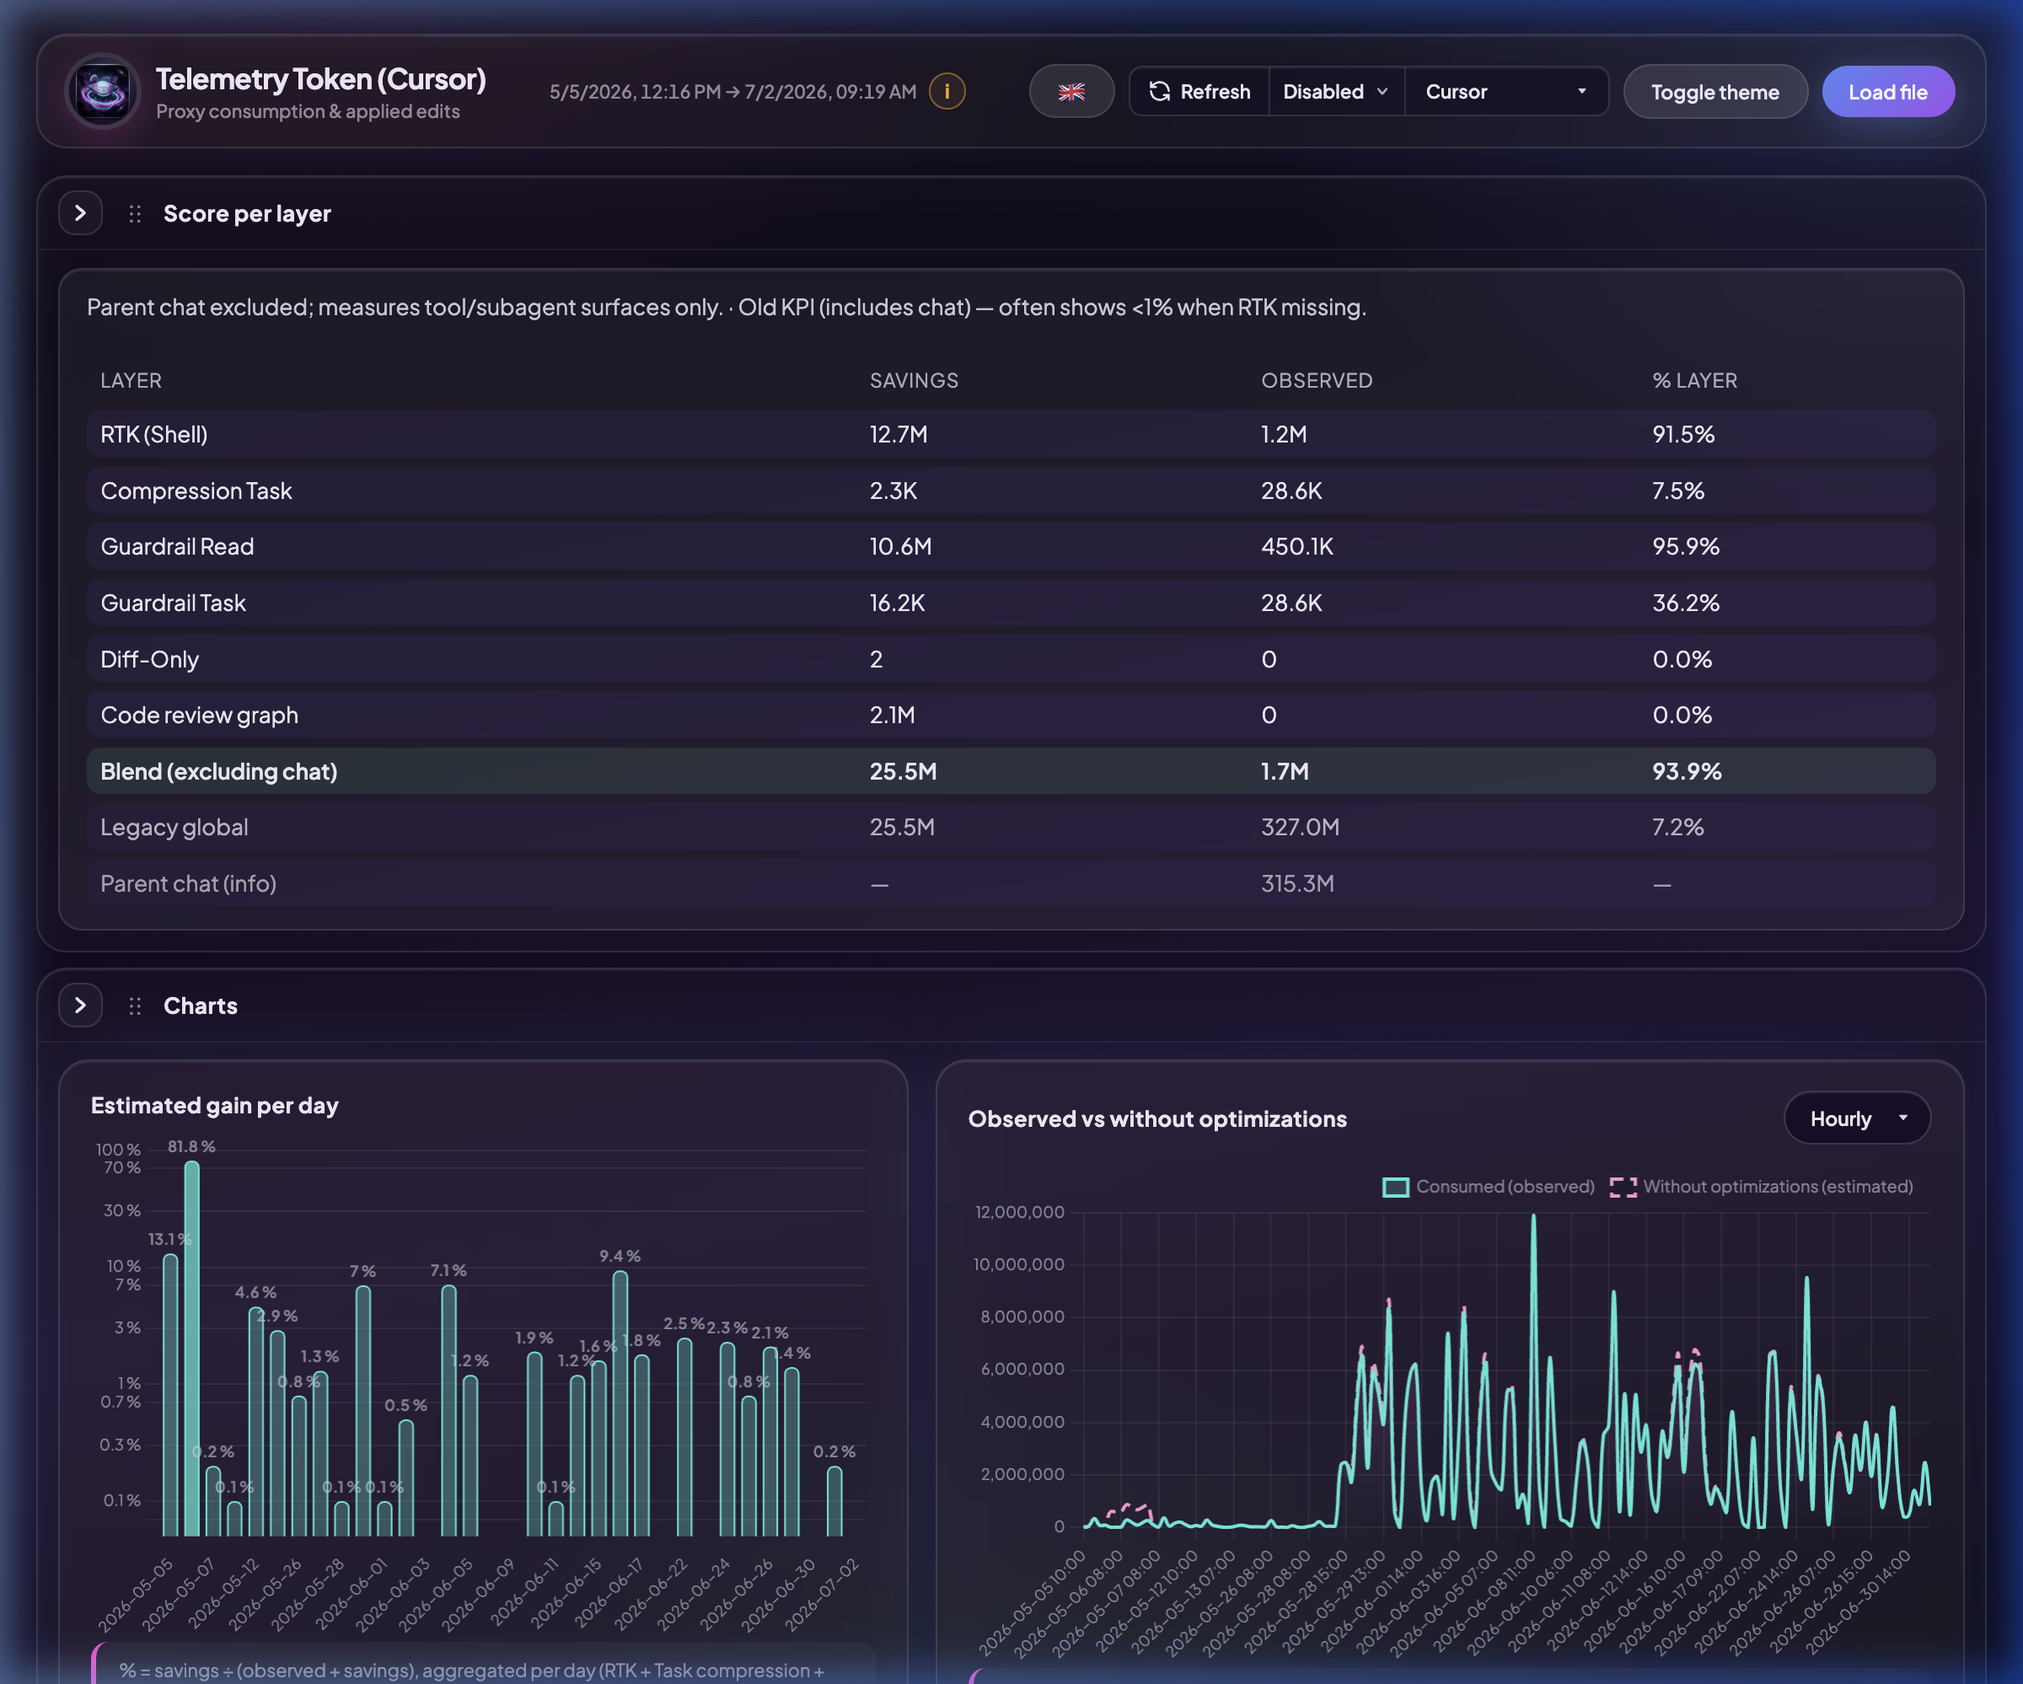
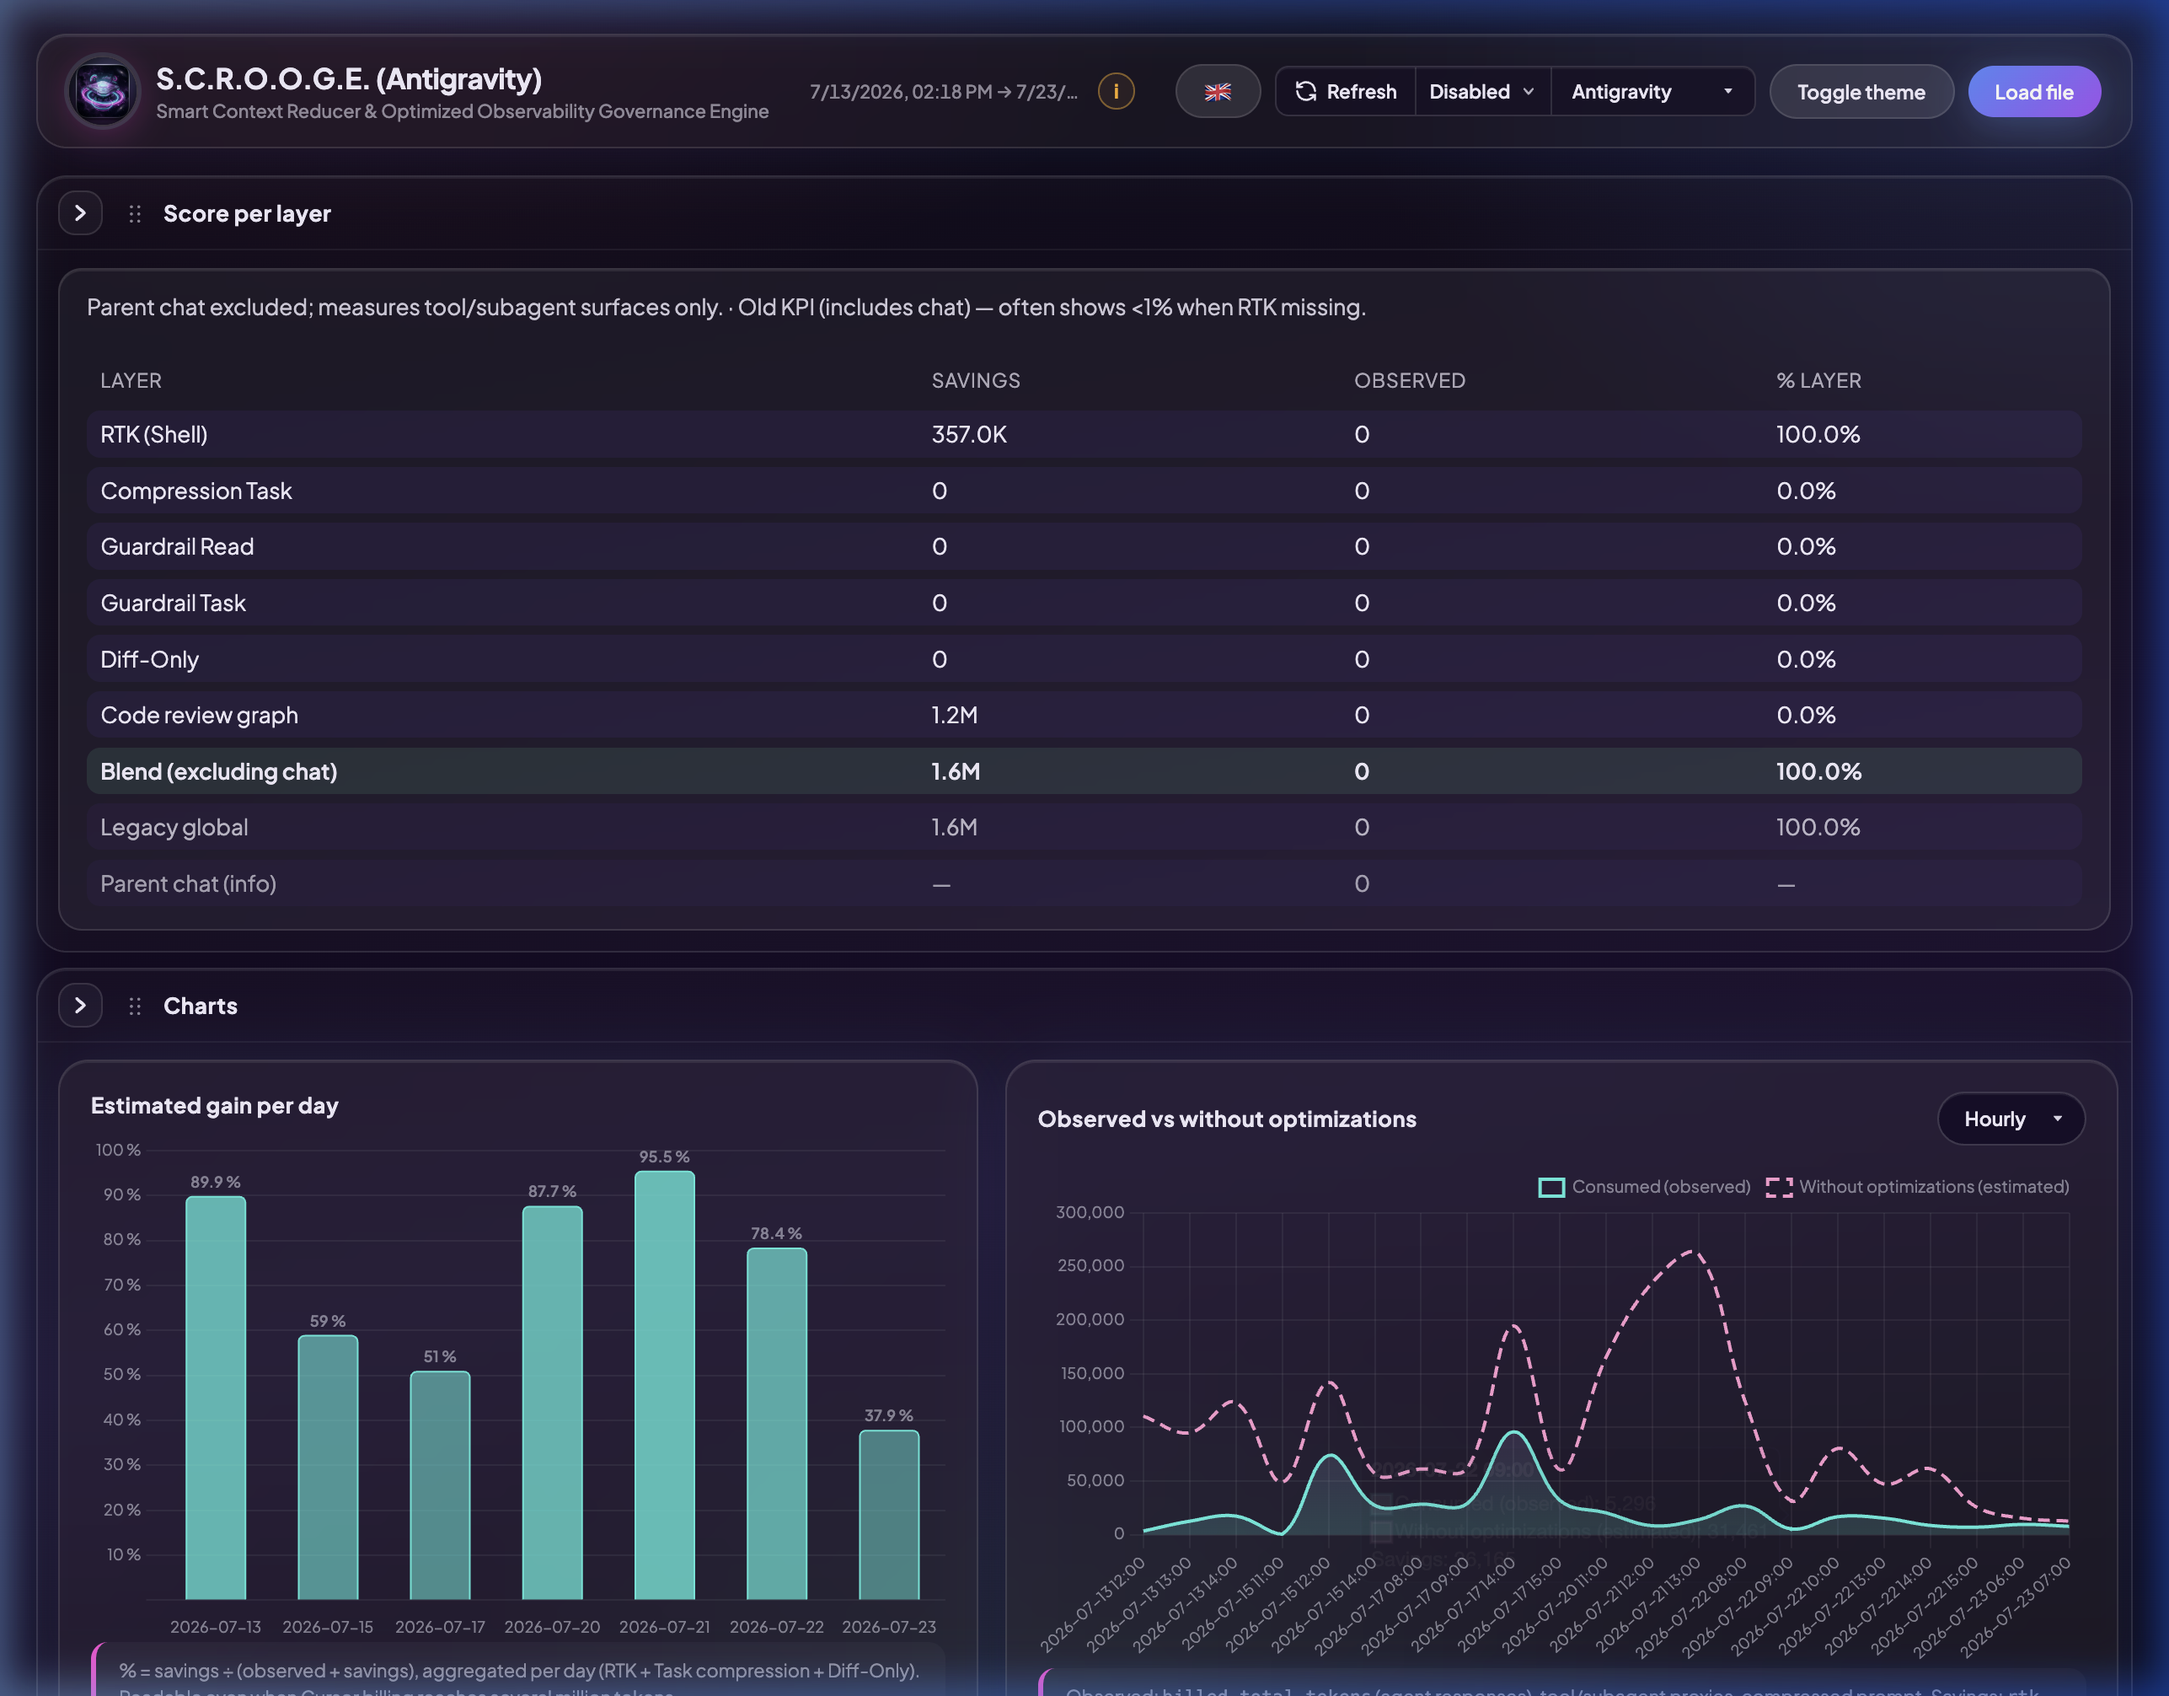
refactor: reorganize repository structure to domain-driven layout
- Moved core telemetry, database, paths, configs, and metrics to src/telemetry/

- Moved context compaction, headroom adapters, and smart reducers to src/compaction/

- Moved bridge integrations to src/bridge/

- Moved frontend UI assets, serve_dashboard, and dashboard_app to dashboard/

- Moved report.py to cli/

- Updated paths dynamically in telemetry files to support both development and flat target environments

- Updated install_stack.py to preserve backward compatibility (flat copy in target hub)

- Updated PyTest, MyPy, Ruff, and PyInstaller config paths

- Updated README.md and captured a new dashboard screenshot using Antigravity

diff --git a/install_stack.py b/install_stack.py
@@ -23,33 +23,35 @@ HUB_FILES = REPO_ROOT / "hub_files"
 CODEX_FILES = HUB_FILES / "codex"
 
 DASHBOARD_RUNTIME_FILES = {
-    ".env",
-    ".env.example",
-    "dashboard.html",
-    "dashboard.css",
-    "dashboard.js",
-    "dashboard_translations.js",
-    "dashboard_utils.js",
-    "dashboard_api.js",
-    "dashboard_charts.js",
-    "dashboard_stats.js",
-    "dashboard_tables.js",
-    "dashboard_app.py",
-    "providers_config.py",
-    "providers_config.yaml",
-    "report.py",
-    "requirements-desktop.txt",
-    "requirements-desktop-linux.lock",
-    "requirements-desktop-macos.lock",
-    "requirements-desktop-windows.lock",
-    "rtk_resolver.py",
-    "serve_dashboard.py",
-    "telemetry_common.py",
-    "telemetry_config.py",
-    "telemetry_db.py",
-    "telemetry_metrics.py",
-    "telemetry_paths.py",
+    # File name -> Relative source directory in repo
+    ".env": ".",
+    ".env.example": ".",
+    "dashboard.html": "dashboard",
+    "dashboard.css": "dashboard",
+    "dashboard.js": "dashboard",
+    "dashboard_translations.js": "dashboard",
+    "dashboard_utils.js": "dashboard",
+    "dashboard_api.js": "dashboard",
+    "dashboard_charts.js": "dashboard",
+    "dashboard_stats.js": "dashboard",
+    "dashboard_tables.js": "dashboard",
+    "dashboard_app.py": "dashboard",
+    "providers_config.py": "src/telemetry",
+    "providers_config.yaml": "src/telemetry",
+    "report.py": "cli",
+    "requirements-desktop.txt": ".",
+    "requirements-desktop-linux.lock": ".",
+    "requirements-desktop-macos.lock": ".",
+    "requirements-desktop-windows.lock": ".",
+    "rtk_resolver.py": "src/telemetry",
+    "serve_dashboard.py": "dashboard",
+    "telemetry_common.py": "src/telemetry",
+    "telemetry_config.py": "src/telemetry",
+    "telemetry_db.py": "src/telemetry",
+    "telemetry_metrics.py": "src/telemetry",
+    "telemetry_paths.py": "src/telemetry",
 }
+
 
 TOKEN_TELEMETRY_PRESERVE_NAMES = {
     ".venv-desktop",
@@ -391,8 +393,8 @@ def copy_tree_idempotent(src: Path, dst: Path, ignore=None, overwrite: bool = Tr
 def deploy_token_telemetry_runtime(repo_root: Path, dst: Path) -> None:
     """Deploy only dashboard/runtime files into <HUB>/token-telemetry."""
     dst.mkdir(parents=True, exist_ok=True)
-    for name in DASHBOARD_RUNTIME_FILES:
-        src = repo_root / name
+    for name, rel_dir in DASHBOARD_RUNTIME_FILES.items():
+        src = repo_root / rel_dir / name
         if src.is_file():
             shutil.copy2(src, dst / name)
 

diff --git a/src/telemetry/telemetry_common.py b/src/telemetry/telemetry_common.py
@@ -330,14 +330,20 @@ _claude_tokenizer: Any = None
 def _resolve_claude_tokenizer_path() -> Path | None:
     """Resolve absolute path to the offline Claude tokenizer.json file."""
     base_dir = Path(__file__).resolve().parent
-    # In installed context: token-telemetry/telemetry_common.py -> src/utils/claude_tokenizer/tokenizer.json
-    path_installed = base_dir.parent / "src" / "utils" / "claude_tokenizer" / "tokenizer.json"
-    if path_installed.is_file():
-        return path_installed
-    # In dev context: telemetry_common.py -> hub_files/src/utils/claude_tokenizer/tokenizer.json
-    path_dev = base_dir / "hub_files" / "src" / "utils" / "claude_tokenizer" / "tokenizer.json"
-    if path_dev.is_file():
-        return path_dev
+    if base_dir.name == "telemetry" and base_dir.parent.name == "src":
+        repo_root = base_dir.parent.parent
+    else:
+        repo_root = base_dir.parent
+
+    # Candidates for offline Claude tokenizer
+    candidates = [
+        base_dir.parent / "src" / "utils" / "claude_tokenizer" / "tokenizer.json",
+        repo_root / "hub_files" / "src" / "utils" / "claude_tokenizer" / "tokenizer.json",
+        base_dir / "src" / "utils" / "claude_tokenizer" / "tokenizer.json",
+    ]
+    for p in candidates:
+        if p.is_file():
+            return p
     return None
 
 

diff --git a/dashboard/serve_dashboard.py b/dashboard/serve_dashboard.py
@@ -15,8 +15,17 @@ import sys
 from http.server import SimpleHTTPRequestHandler
 from typing import Any
 
-from providers_config import get_data_dir, get_enabled_providers, get_rtk_cwd
+# Setup path for dev structure
+_this_dir = pathlib.Path(__file__).resolve().parent
+if (_this_dir.parent / "src").is_dir():
+    for _sub in ("telemetry", "compaction", "bridge"):
+        _p = str(_this_dir.parent / "src" / _sub)
+        if _p not in sys.path:
+            sys.path.insert(0, _p)
+
 from telemetry_metrics import summarize_layer_kpis, summarize_report
+
+from providers_config import get_data_dir, get_enabled_providers, get_rtk_cwd
 
 
 def package_root() -> pathlib.Path:
@@ -39,7 +48,7 @@ def get_paths(source: str) -> tuple[pathlib.Path, pathlib.Path]:
 
 DASH = package_root() / "dashboard.html"
 ICON = package_root() / "icon.jpg"  # app logo / favicon (JPEG)
-ICON_FALLBACK = package_root() / "docs" / "fr" / "assets" / "icon.jpg"
+ICON_FALLBACK = package_root().parent / "docs" / "fr" / "assets" / "icon.jpg"
 JS = package_root() / "dashboard.js"
 CSS = package_root() / "dashboard.css"
 HOST = os.environ.get("TELEMETRY_HOST", "127.0.0.1")
